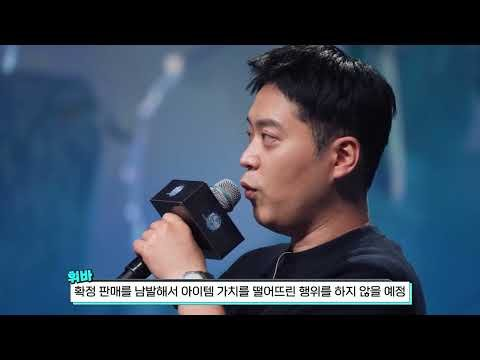
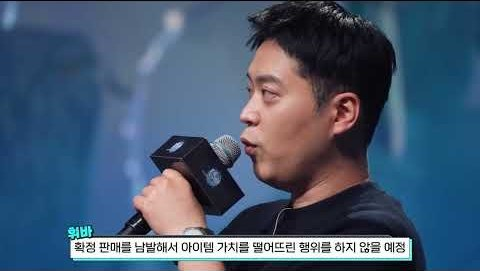
유튜브 영상 화면의 검은 띠 잘라내기
Claude-Session: https://claude.ai/code/session_01EuwyVh4pawV6uh4g6pAyXU

diff --git a/build_site.py b/build_site.py
@@ -43,6 +43,13 @@ def week_of(posted_at: str) -> str:
     return (d - timedelta(days=d.weekday())).date().isoformat()
 
 
+def crop_black_bars(im):
+    """유튜브 영상 화면 위아래의 검은 띠 잘라내기."""
+    gray = im.convert("L").point(lambda v: 255 if v > 24 else 0)
+    box = gray.getbbox()
+    return im.crop(box) if box and (box[3] - box[1]) > im.height * 0.4 else im
+
+
 def save_image(url: str) -> str | None:
     name = hashlib.sha1(url.encode()).hexdigest()[:16]
     for ext in (".jpg", ".png", ".gif", ".webp", ".mp4"):
@@ -61,6 +68,8 @@ def save_image(url: str) -> str | None:
     try:
         im = Image.open(io.BytesIO(data))
         im = im.convert("RGB")
+        if "ytimg.com" in url:
+            im = crop_black_bars(im)
         if im.width > 900:
             im = im.resize((900, round(im.height * 900 / im.width)))
         im.save(IMG / f"{name}.jpg", "JPEG", quality=85)
